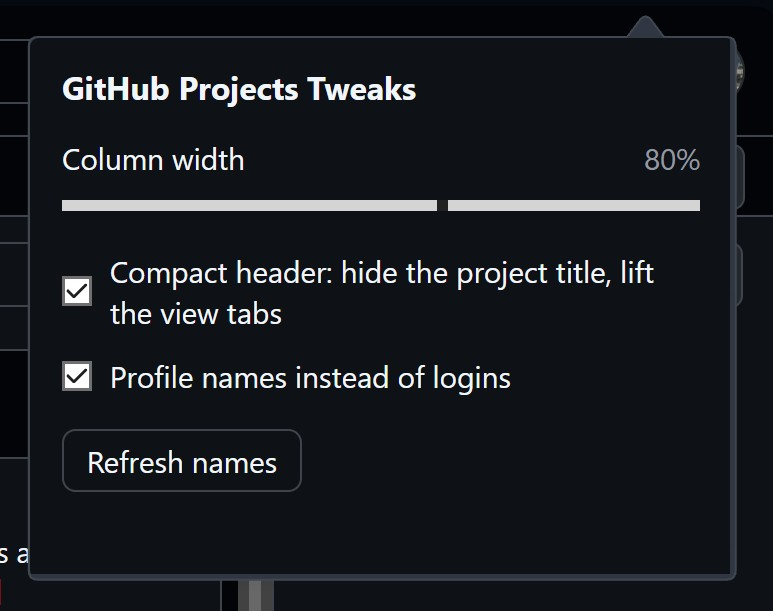
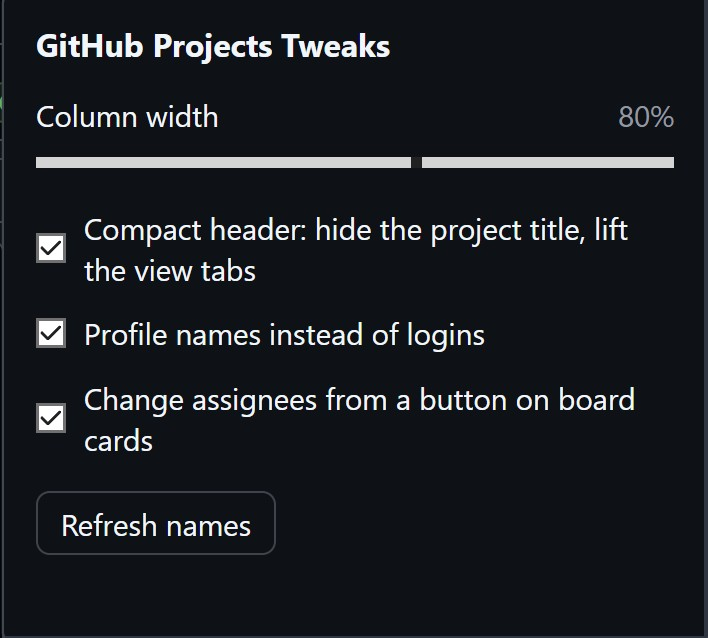
Add the assignee picker screenshot and the updated popup to the README

Changed region(s): [[0.0, 0.0, 1.0, 1.0], [0.0311, 0.5908, 0.9011, 0.7152]]

diff --git a/README.md b/README.md
@@ -87,11 +87,13 @@ The same compact header, and assignees show profile names instead of logins.
 - Clicking the avatar itself still filters the board by that person.
 - Can be switched off in the popup: **Change assignees from a button on board cards**.
 
+<img src="docs/screenshots/assignee-picker.png" alt="Select assignees picker under a board card" width="372">
+
 ### Settings
 
 All of it can be tuned or switched off in the extension popup:
 
-<img src="docs/screenshots/popup.jpg" alt="Settings popup" width="386">
+<img src="docs/screenshots/popup.jpg" alt="Settings popup" width="354">
 
 ## Installation
 
